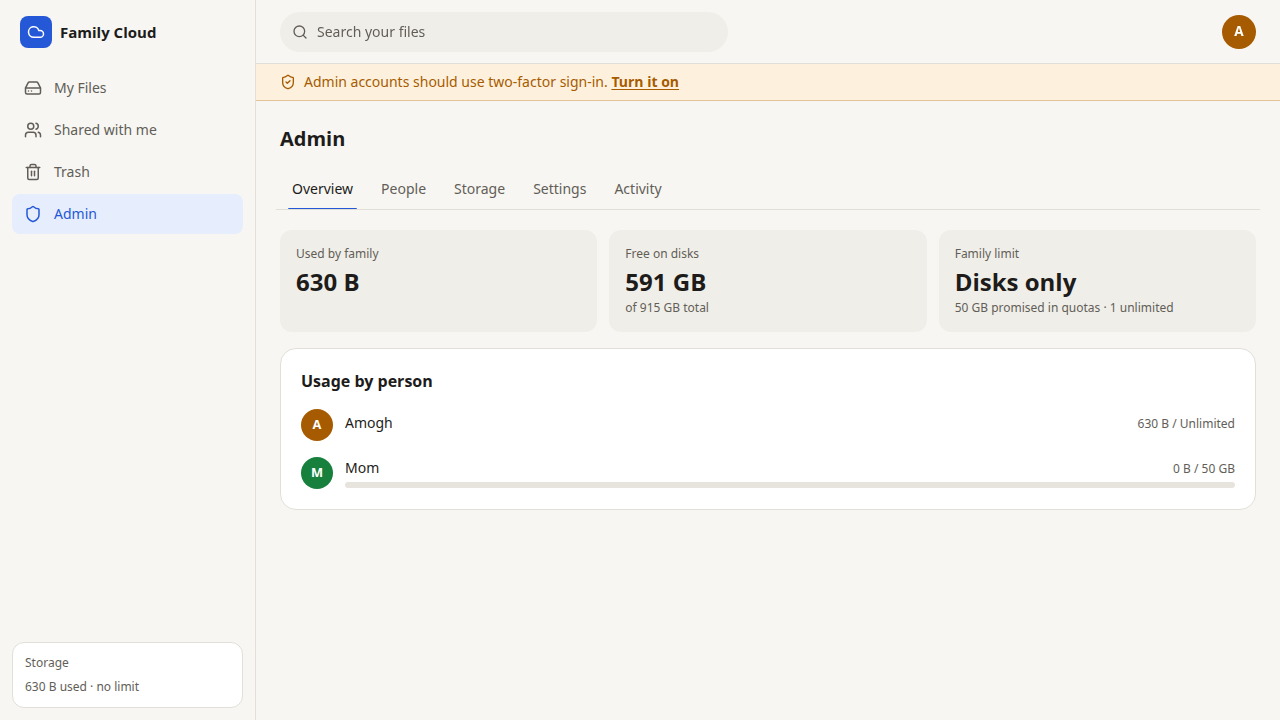
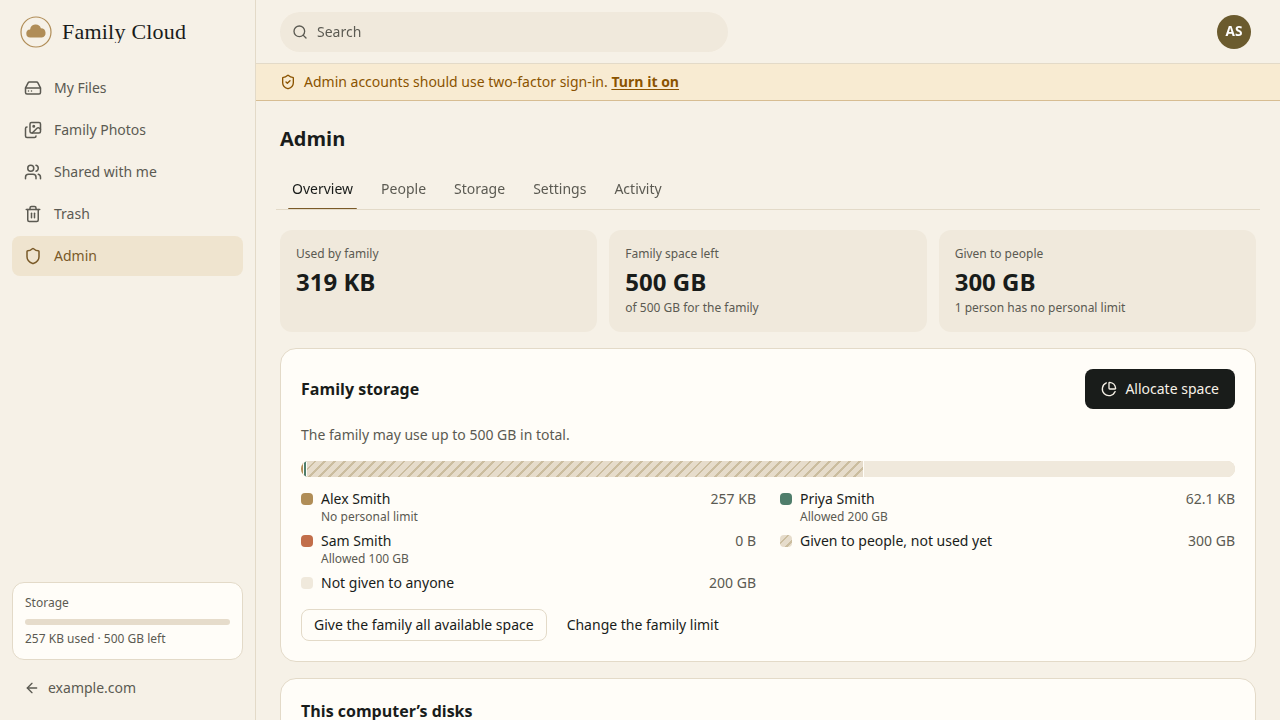
README: Family Photos, passkeys, allowed email domains, storage allocation, branding; new screenshots
Screenshots use a generic demo family (Alex, Priya and Sam Smith at
example.com) and generated images.

diff --git a/README.md b/README.md
@@ -4,22 +4,29 @@ Your family's own Google Drive, running on a computer you already have.
 
 Family Cloud turns a Linux machine and its disks into a private cloud for the people you live with. Everyone gets an account, a storage quota you control, and access from any browser, phone or laptop. Files stay in your home, on your disks.
 
-![Browsing a folder](docs/images/files.png)
+![A family trip album](docs/images/album.png)
 
 ## What it does
 
-- **Accounts for the whole family.** Invite people with a link. Admins set and change each person's storage quota at any time.
+- **Private files for everyone.** Each person's **My Files** is theirs alone: nobody else (admins included) can see it unless they share something.
+- **Family Photos.** Trip albums for the whole family: give a trip a name, dates and who went, and everyone on it adds photos straight from their phone. Every family member can see every album and filter by person; each person's photos still count against their own storage.
+- **Accounts for the whole family.** Invite people with a link. Optionally allow only your family's email domain (e.g. `@smithfamily.com`) to be invited or sign in.
+- **Sign in with Face ID or Touch ID.** Passkeys (synced through iCloud Keychain or Google Password Manager), plus passwords with optional two-factor codes.
 - **Upload anything, from anywhere.** Big uploads are sent in pieces, survive a dropped Wi‑Fi connection, and resume where they left off. Drag in whole folders.
-- **Photos and videos look right.** Thumbnails for photos (including iPhone HEIC), videos and PDFs; in-browser preview with video seeking.
+- **Photos and videos look right.** Thumbnails for photos (including iPhone HEIC), videos and PDFs. The viewer works like a phone's photo app: swipe between photos, pinch or double-tap to zoom, swipe down to close.
 - **Share inside the family** (view or edit), or **with anyone** through a link with an optional password and expiry date.
 - **A real network drive.** Open your files in the iPhone/iPad Files app, macOS Finder or Windows Explorer (WebDAV), with a separate revocable password per device.
+- **Storage you can see and share out.** The admin screen shows where the space on your disks goes and how the family's space is split between people, and lets you hand out, even out and move allowances. Everyone sees how much space they have left.
 - **Grow storage by adding disks.** Plug in a new drive and add it from the admin screen, without restarting. Retire an old drive and every file is moved off it and checked first.
 - **Trash with undo**, a 30-day safety net before anything is gone for good.
-- **Secure by default.** Two-factor sign-in, rate limiting, no open router ports (with Cloudflare Tunnel), and uploaded files that can never run code in your browser. See the [security report](docs/security.md).
+- **Your family's look.** Upload your own logo (also used as the home-screen icon), choose the word beside it and link back to your family website. Light and dark themes, and it installs to a phone's home screen like an app.
+- **Secure and private by default.** Two-factor and passkey sign-in, rate limiting, no open router ports (with Cloudflare Tunnel), uploaded files that can never run code in your browser, and it asks search engines not to list it. See the [security report](docs/security.md).
 
-| Admin overview | Network drive setup | On a phone |
-| --- | --- | --- |
-| ![Admin overview](docs/images/admin-overview.png) | ![Connect a device](docs/images/connect-device.png) | ![Mobile](docs/images/mobile.png) |
+| Private files | Admin: storage and allowances |
+| --- | --- |
+| ![My Files](docs/images/files.png) | ![Admin overview](docs/images/admin-overview.png) |
+| **Network drive setup** | **On a phone** |
+| ![Connect a device](docs/images/connect-device.png) | ![A trip album on a phone](docs/images/mobile.png) |
 
 ## Run your own
 
@@ -33,6 +40,8 @@ cd familycloud
 
 The installer asks for your web address, creates the storage folders under `/srv/familycloud`, generates the secrets and starts everything. It then prints a link and a one-time setup token. Open the link, create the admin account, and invite your family from **Admin → People**.
 
+Then, in **Admin → Settings**: add your logo and family website under Branding, and (if your family shares an email domain) list it under "Only allow these email domains". Everyone gets a prompt to set up a passkey the first time they sign in.
+
 To reach it from outside your home, the recommended route is a free **Cloudflare Tunnel**, which needs no router changes. See the [self-hosting guide](docs/self-hosting.md) for all the options, step by step.
 
 ### Guides
@@ -41,7 +50,7 @@ To reach it from outside your home, the recommended route is a free **Cloudflare
 | --- | --- |
 | [Self-hosting](docs/self-hosting.md) | Hardware, installing, your domain, first sign-in, updating, troubleshooting |
 | [Cloudflare Tunnel](docs/cloudflare-tunnel.md) | Putting it on your own domain without opening ports |
-| [Disks and storage](docs/storage-and-disks.md) | Quotas, family limit, adding, limiting and retiring disks |
+| [Disks and storage](docs/storage-and-disks.md) | Allowances, family limit, adding, limiting and retiring disks |
 | [Network drive](docs/network-drive.md) | iPhone/iPad Files app, Finder and Windows |
 | [Backups and moving](docs/backup-restore.md) | Nightly backups, restoring, moving to new hardware |
 | [Hardware and uptime](docs/hardware-and-uptime.md) | What to run it on, power use, keeping it online |
@@ -72,13 +81,15 @@ The full design (data model, upload protocol, permissions, caching and how it wo
 
 ```
 apps/server/        API, background worker and admin CLI (Fastify, Drizzle, pg-boss)
-  src/modules/      auth, files, uploads, sharing, admin, webdav: one folder per feature
+  src/modules/      auth (incl. passkeys), files, uploads, sharing, photos, admin (incl.
+                    branding), webdav: one folder per feature
   src/storage/      disk volumes, placement, thumbnails
   src/jobs/         background jobs (thumbnails, checksums, draining disks, cleanups)
   test/             integration tests against a real PostgreSQL
 apps/web/           React app
   src/components/ui reusable, accessible UI primitives
-  src/features/     file browser, uploads, sharing, admin, settings, public links
+  src/features/     file browser, photos (trip albums), uploads, sharing, admin, settings,
+                    public links
 packages/shared/    API contract (Zod schemas + types) shared by server and web
 deploy/             docker-compose.yml, Caddyfile, .env.example
 scripts/            install.sh, add-disk.sh, backup.sh
